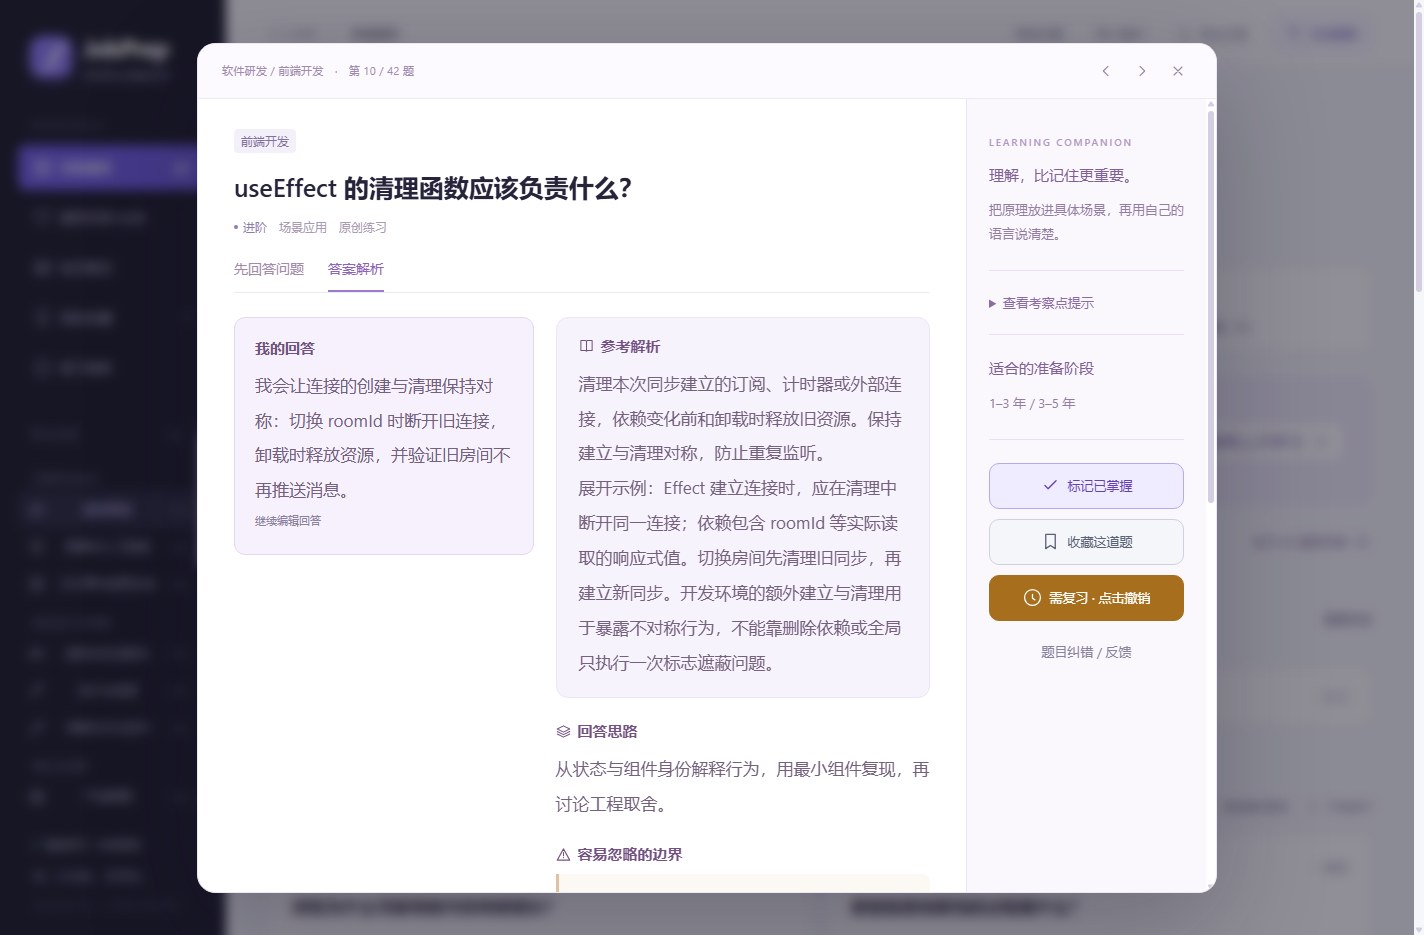
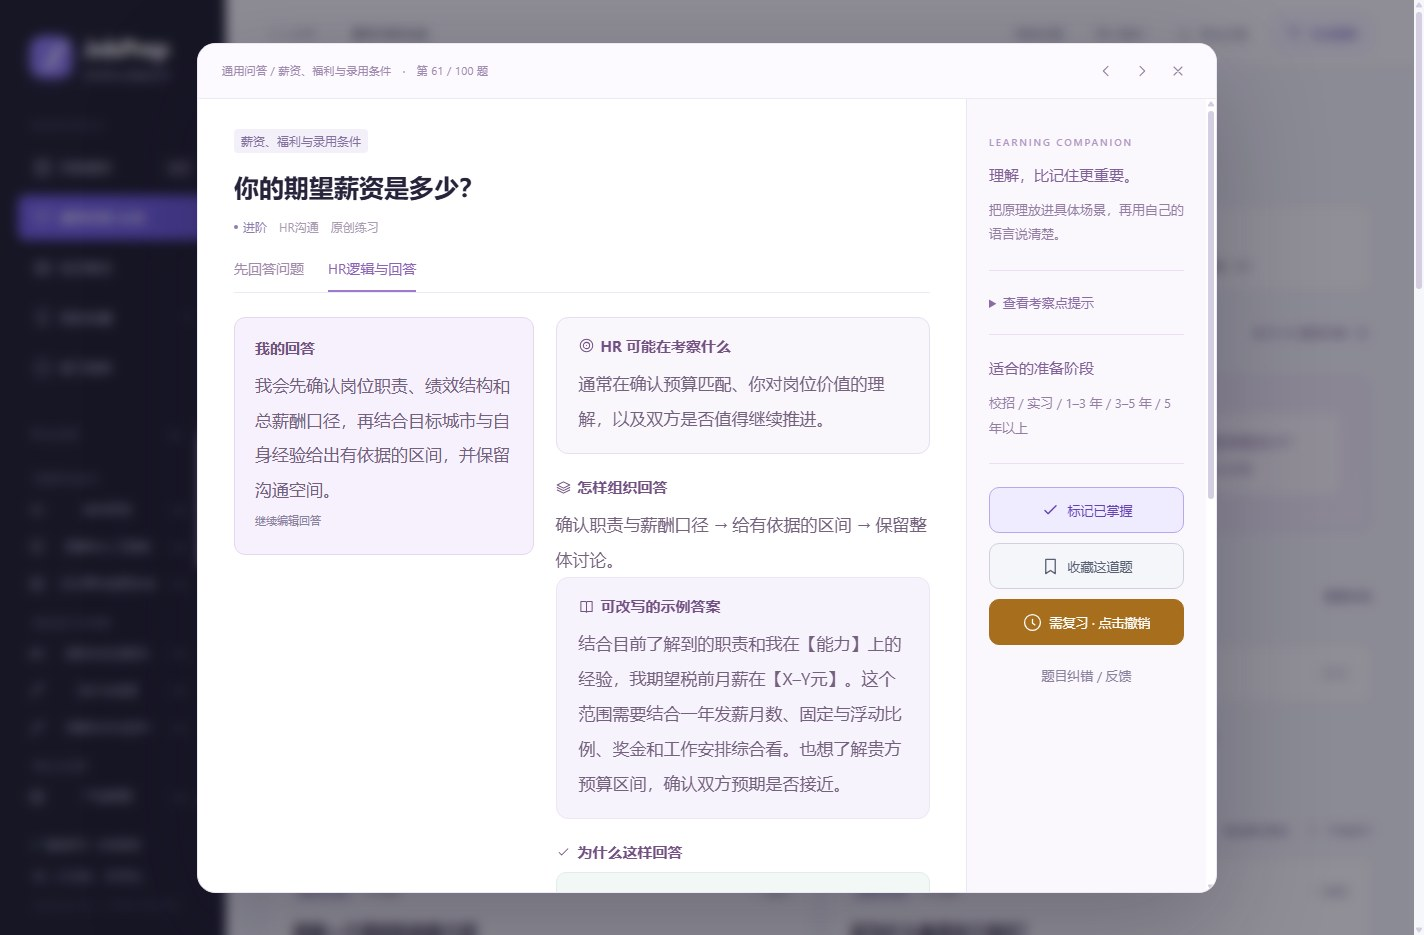
Position JobPrep for multi-industry interview preparation

diff --git a/README.md b/README.md
@@ -1,6 +1,10 @@
 # JobPrep
 
-离线、本地保存的开源面试准备桌面软件。当前版本 **0.6.1**：20 个职业方向、120 个细分岗位，每岗位 42 道专业练习，另含 100 道通用问答，共 5,140 道。
+**面向多行业、多岗位求职者的开源面试准备桌面软件。** 覆盖销售、设计、游戏、教育、心理学、财务、制造、医疗健康等职业方向，离线使用、本地保存，无需账号。
+
+Offline interview preparation for multiple industries and roles. Chinese content, local-first learning.
+
+当前版本 **0.6.1**：20 个职业方向、120 个细分岗位，每岗位 42 道专业练习，另含 100 道通用问答，共 5,140 道。
 
 [![Checks](https://github.com/MRYH1013/JobPrep/actions/workflows/ci.yml/badge.svg)](https://github.com/MRYH1013/JobPrep/actions/workflows/ci.yml)
 
@@ -14,9 +18,21 @@
 
 ![选择细分岗位](docs/images/roles.jpg)
 
+## 行业与岗位覆盖
+
+|领域|职业方向|
+|---|---|
+|商业与服务|销售与客户经营、电商与跨境贸易、供应链与物流、生活服务与文旅|
+|设计与内容|设计与创意、传媒与文化创作、市场与品牌传播、游戏与互动娱乐|
+|组织与专业服务|人力与组织管理、教育与学习服务、财务与金融、心理学与行为研究、医疗与健康服务|
+|产品与运营|产品管理、内容与用户运营|
+|工程与技术|制造与工程技术、建筑与空间环境、软件研发、数据与人工智能、云计算与信息安全|
+
+每个方向包含 6 个细分岗位。可先选择自己的岗位，再按求职阶段和难度准备；通用问答适合跨岗位练习表达。
+
 ## 使用顺序
 
-1. 选择职业方向，再选择前端、Java 后端等细分岗位。学习百分比只按该岗位计算。
+1. 先选择销售、设计、教育等职业方向，再选择具体岗位。学习百分比只按该岗位计算。
 2. 点击题目或“开始作答”，先独立回答。考察点与思路提示默认折叠。
 3. 提交后对照“我的回答”和参考解析，自行勾选回答要点。
 4. 根据实际情况标记“需复习”或“已掌握”。提交不会自动计入掌握，已掌握题目排在后面。
